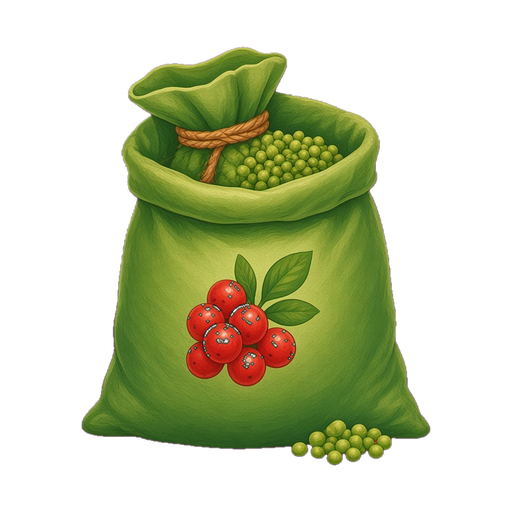
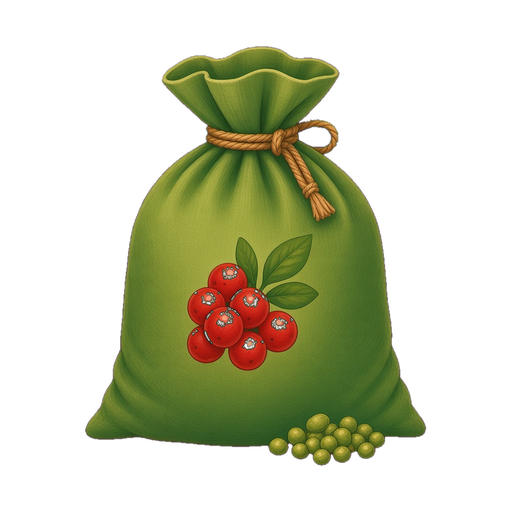
Close the yield fertilizer sack so it matches the other bags.
The first yield icon was both open at the top and tied shut. The sack is
now gathered and tied closed like the general and growth bags, still
green, with a fruit emblem and a few green granules beside it. The
earlier painting is kept under sources/originals.

Changed region(s): [[0.1562, 0.0625, 0.8438, 0.9062]]

diff --git a/static/packs/storybook/sources/prompts.md b/static/packs/storybook/sources/prompts.md
@@ -75,3 +75,5 @@ The first cabin tiles had wooden steps leading to a four-pane lantern window and
 ## Item icons
 
 Inventory, shop, chest, kitchen, and recipe-book icons were painted in the same ink-and-watercolour Storybook style as the soil, cabin, and plant tiles: a single centered object on a transparent square, not a flat vector placeholder. Tools, three visually distinct fertilizer sacks (teal general, green yield, steel-blue growth), staples, crafted foods, produce, and seed packets live in `items/`. Raw paintings are kept as `sources/originals/item_*.jpg`. The everbearing seedling icon is a closer crop of the existing seedling overlay.
+
+The first yield fertilizer sack was both open at the top, with granules and berries spilling out, and tied closed at once. It was repainted as a single consistent sack: gathered and tied shut like the general and growth bags, still green, with a fruit emblem on the front and a few green granules beside it. The earlier painting is kept as `sources/originals/item_fertilizer_yield_open.jpg` (and the earlier processed icon as `item_fertilizer_yield_open.png`).
